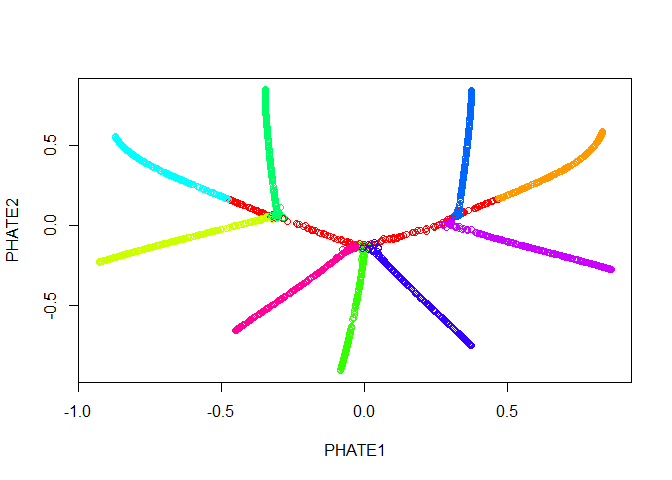
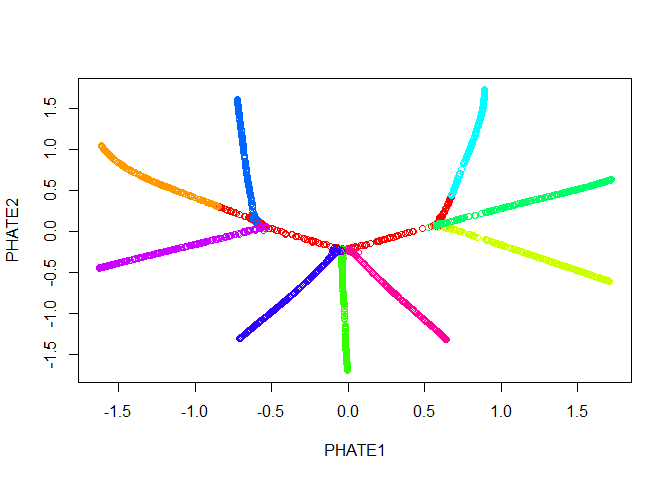
update default parameters

diff --git a/README.md b/README.md
@@ -3,13 +3,19 @@ phateR v0.2.7
 
 <!-- README.md is generated from README.Rmd. Please edit that file -->
 
-[![Latest PyPI version](https://img.shields.io/pypi/v/phate.svg)](https://pypi.org/project/phate/)
-[![Latest CRAN version](https://img.shields.io/cran/v/phateR.svg)](https://cran.r-project.org/package=phateR)
-[![Travis CI Build](https://api.travis-ci.com/KrishnaswamyLab/phateR.svg?branch=master)](https://travis-ci.com/KrishnaswamyLab/phateR)
-[![Read the Docs](https://img.shields.io/readthedocs/phate.svg)](https://phate.readthedocs.io/)
-[![bioRxiv Preprint](https://zenodo.org/badge/DOI/10.1101/120378.svg)](https://www.biorxiv.org/content/early/2017/12/01/120378)
+[![Latest PyPI
+version](https://img.shields.io/pypi/v/phate.svg)](https://pypi.org/project/phate/)
+[![Latest CRAN
+version](https://img.shields.io/cran/v/phateR.svg)](https://cran.r-project.org/package=phateR)
+[![Travis CI
+Build](https://api.travis-ci.com/KrishnaswamyLab/phateR.svg?branch=master)](https://travis-ci.com/KrishnaswamyLab/phateR)
+[![Read the
+Docs](https://img.shields.io/readthedocs/phate.svg)](https://phate.readthedocs.io/)
+[![bioRxiv
+Preprint](https://zenodo.org/badge/DOI/10.1101/120378.svg)](https://www.biorxiv.org/content/early/2017/12/01/120378)
 [![Twitter](https://img.shields.io/twitter/follow/KrishnaswamyLab.svg?style=social&label=Follow)](https://twitter.com/KrishnaswamyLab)
-[![Github Stars](https://img.shields.io/github/stars/KrishnaswamyLab/PHATE.svg?style=social&label=Stars)](https://github.com/KrishnaswamyLab/PHATE/)
+[![Github
+Stars](https://img.shields.io/github/stars/KrishnaswamyLab/PHATE.svg?style=social&label=Stars)](https://github.com/KrishnaswamyLab/PHATE/)
 
 This R package provides an implementation of the [PHATE dimensionality
 reduction and visualization
@@ -24,12 +30,14 @@ For our Python and Matlab implementations, please see
 
 ## Table of Contents
 
-  * [Installation](#installation)
-    * [Installation from CRAN and PyPi](#installation-from-cran-and-pypi)
-    * [Installation with devtools and <code>reticulate</code>](#installation-with-devtools-and-reticulate)
-    * [Installation from source](#installation-from-source)
-  * [Tutorial](#tutorial)
-  * [Issues](#issues)
+  - [Installation](#installation)
+      - [Installation from CRAN and
+        PyPi](#installation-from-cran-and-pypi)
+      - [Installation with devtools and
+        <code>reticulate</code>](#installation-with-devtools-and-reticulate)
+      - [Installation from source](#installation-from-source)
+  - [Tutorial](#tutorial)
+  - [Issues](#issues)
 
 ## Installation
 
@@ -81,8 +89,8 @@ python setup.py install --user
 ```
 
 If the `phateR` folder is empty, you have may forgotten to use the
-`--recursive` option for `git clone`. You can rectify this by
-running the following in a terminal:
+`--recursive` option for `git clone`. You can rectify this by running
+the following in a terminal:
 
 ``` bash
 cd PHATE
@@ -102,6 +110,8 @@ PCA.
 
 ``` r
 library(phateR)
+#> Loading required package: Matrix
+#> Warning: package 'Matrix' was built under R version 3.4.4
 data(tree.data)
 plot(prcomp(tree.data$data)$x, col=tree.data$branches)
 ```
@@ -116,7 +126,7 @@ default parameters.
 tree.phate <- phate(tree.data$data)
 summary(tree.phate)
 #> PHATE embedding
-#> k = 15, alpha = NA, t = auto
+#> k = 5, alpha = 15, t = auto
 #> Data: (3000, 100)
 #> Embedding: (3000, 2)
 ```
@@ -136,14 +146,14 @@ interesting activity seems to be concentrated into one region of the
 plot - in this case we should try the square root potential instead. We
 can also try increasing `t` to make the structure a little clearer - in
 this case, because synthetic data in unusually structured, we can use a
-very large value, like 200, but in biological data the automatic `t`
+very large value, like 120, but in biological data the automatic `t`
 selection is generally very close to ideal. Note here that if we pass
 our previous result in with the argument `init`, we won’t have to
 recompute the diffusion operator.
 
 ``` r
 # runs phate with different parameters
-tree.phate <- phate(tree.data$data, potential.method='sqrt', t=200, init=tree.phate)
+tree.phate <- phate(tree.data$data, potential.method='sqrt', t=120, init=tree.phate)
 # plot embedding
 palette(rainbow(10))
 plot(tree.phate, col = tree.data$branches)
@@ -156,7 +166,6 @@ installed.
 
 ``` r
 library(ggplot2)
-#> Warning: package 'ggplot2' was built under R version 3.4.4
 ggplot(tree.phate, aes(x=PHATE1, y=PHATE2, color=tree.data$branches)) +
   geom_point()
 ```
